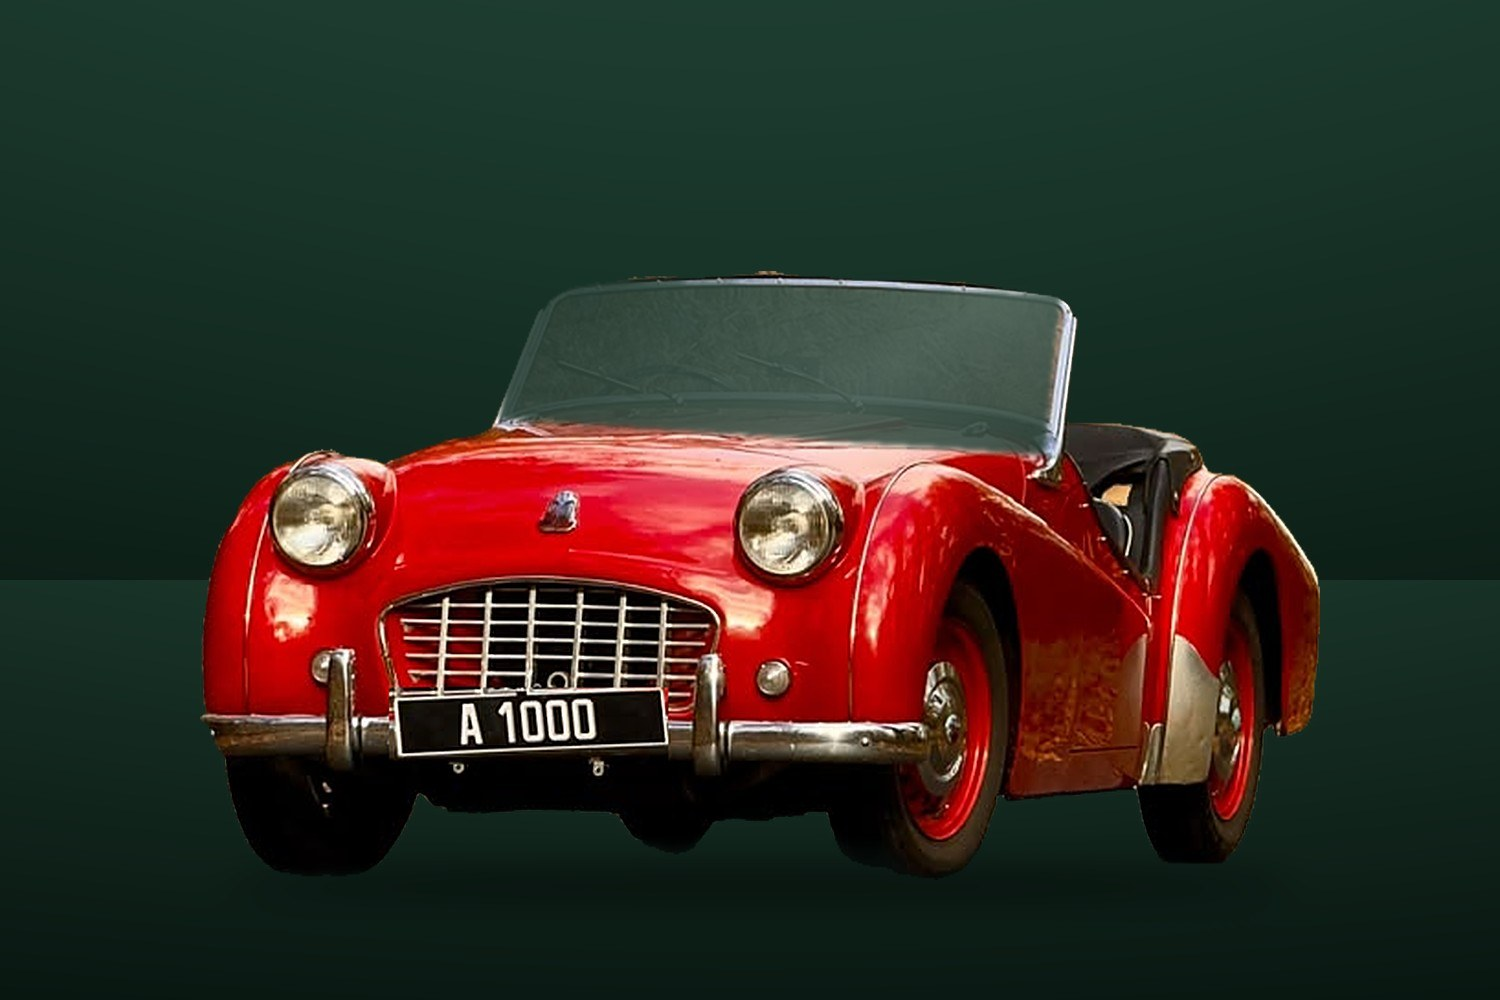
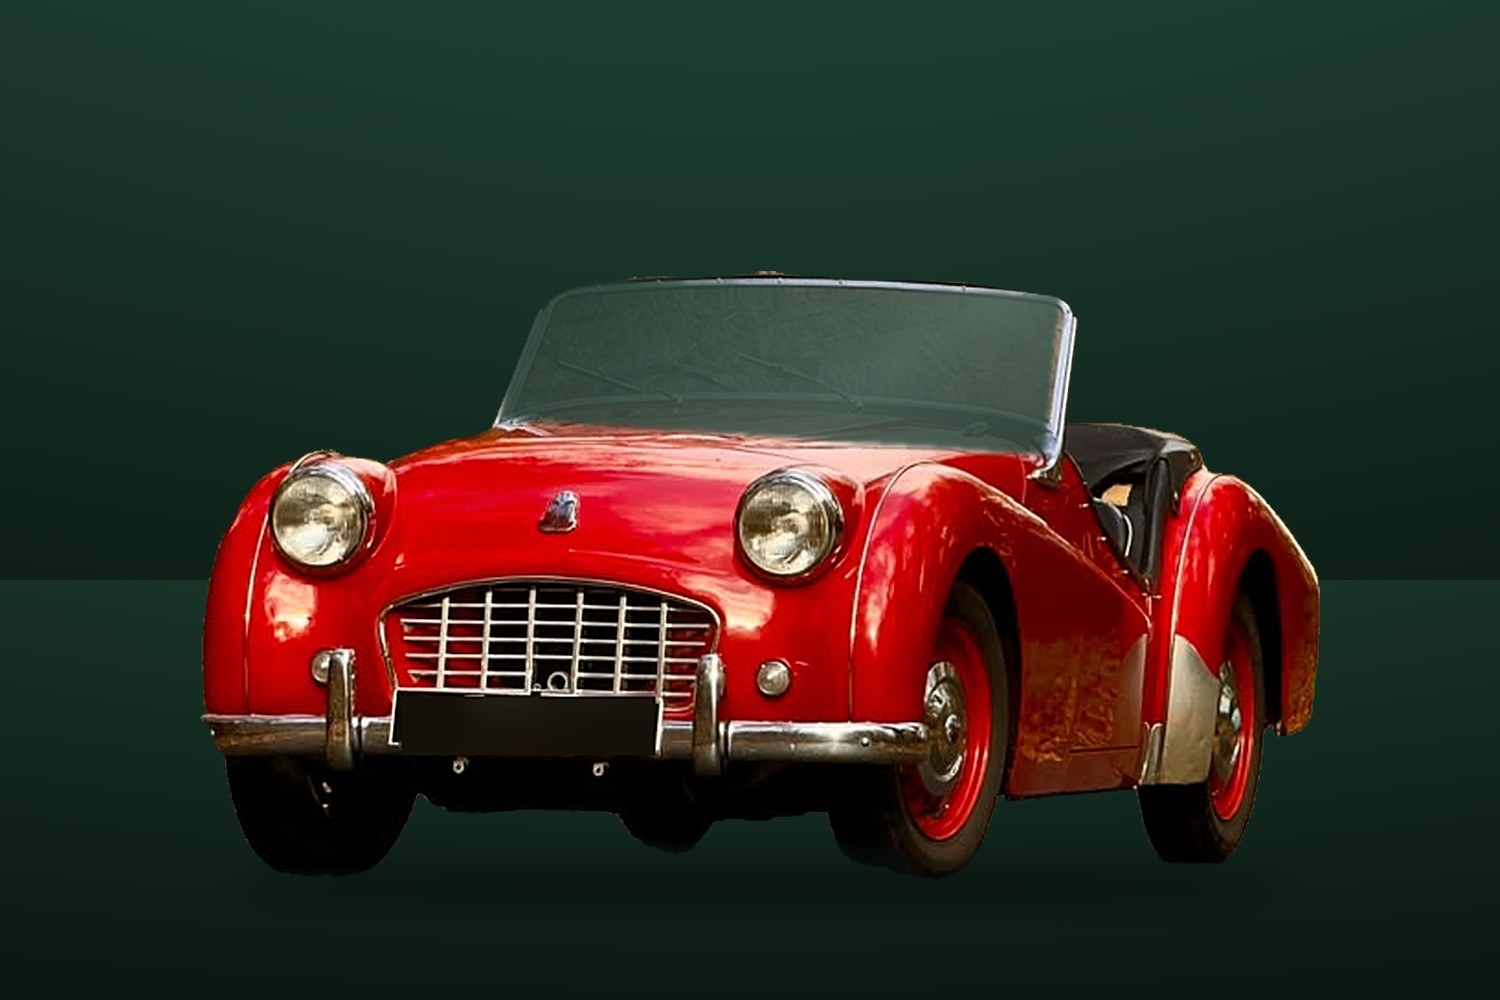
TR3 Ted : vignette — plaque A 1000 retirée (plaque vierge dans l'axe du pare-chocs)
Claude-Session: https://claude.ai/code/session_015zE2JJ3HNC766fTEhLU1AA

Changed region(s): [[0.2453, 0.682, 0.46, 0.775]]

diff --git a/v/triumph-tr3-ted-1957.html b/v/triumph-tr3-ted-1957.html
@@ -6,7 +6,7 @@
 <meta property="og:site_name" content="MCC Motors">
 <meta property="og:title" content="Triumph TR3 « Ted » 1957 — Nous consulter | MCC Motors">
 <meta property="og:description" content="« Ted » : une TR3 « petite bouche » de 1957 dans son état d&#x27;origine, avec ses plaques de l&#x27;Oregon, son titre de 1958 et son carnet d&#x27;entretien depuis la révision des 500 miles. Visible à Rétromobile, chez Le Petit Collectionneur.">
-<meta property="og:image" content="https://mccmotors.fr/img/tr3t-vignette-a.jpg">
+<meta property="og:image" content="https://mccmotors.fr/img/tr3t-vignette-a.jpg?v=2">
 <meta property="og:url" content="https://mccmotors.fr/v/triumph-tr3-ted-1957.html">
 <meta name="twitter:card" content="summary_large_image">
 <link rel="canonical" href="https://mccmotors.fr/#vehicule-triumph-tr3-ted-1957">

diff --git a/index.html b/index.html
@@ -600,7 +600,7 @@ footer{border-top:1px solid rgba(168,123,79,.3)!important}
           ]
         }
       ],
-      "vignette": "img/tr3t-vignette-a.jpg",
+      "vignette": "img/tr3t-vignette-a.jpg?v=2",
       "photos": [
         "img/tr3t-1.jpg",
         "img/tr3t-2.jpg",
